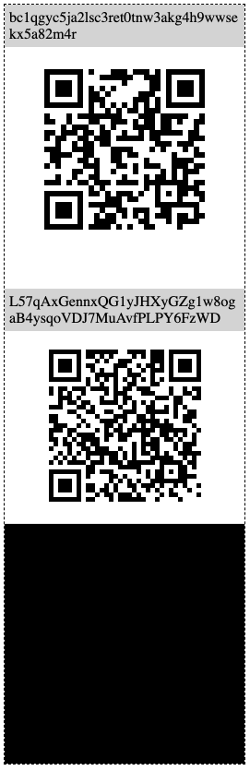
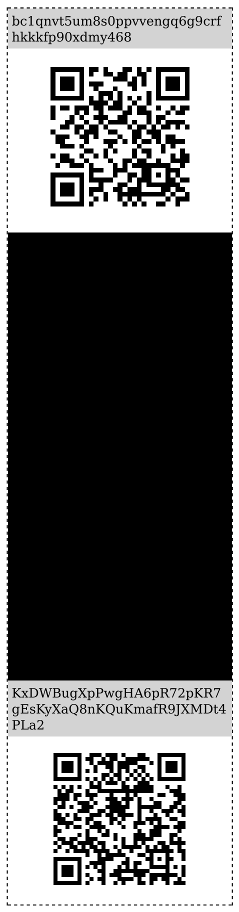
double fold design

diff --git a/src/template.html b/src/template.html
@@ -5,7 +5,7 @@
     <title>Title</title>
     <style>
        body {{
-           width: 260px;
+           width: 280px;
            align-items: center;
            border: dashed;
            border-width: thin;
@@ -19,20 +19,29 @@
            text-align: center;
        }}
        div.black {{
-           height:260px;
+           height:280px;
            background-color: black;
+       }}
+       div.both {{
+           height:280px;
        }}
 
     </style>
 </head>
 <body>
 
-<div class="break-word">{}</div>
-<div class="center">{}</div>
-<br>
-<br>
-<div class="break-word">{}</div>
-<div class="center">{}</div>
+<div class="both">
+    <div class="break-word">{}</div>
+    <div class="center">{}</div>
+</div>
+
 <div class="black"></div>
+<div class="black"></div>
+
+<div class="both">
+    <div class="break-word">{}</div>
+    <div class="center">{}</div>
+</div>
+
 </body>
 </html>

diff --git a/README.md b/README.md
@@ -6,9 +6,9 @@ Generates bitcoin paper wallet offline in a single html page with p2wpkh address
 
 # Usage
 
-Cut the dotted line, fold the black area over the private key, plastify the paper.
+Cut the dotted line, fold the private key over the black area, then fold a second time, plastify the paper.
 
-# Software usage
+# Running the software
 
 Requires [rust](https://www.rust-lang.org/)
 
